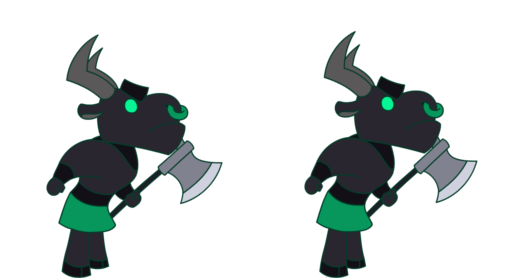
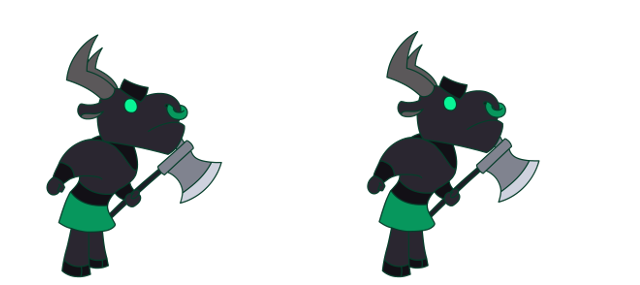
Added new walker animations

Changed region(s): [[0.5603, 0.1151, 0.9339, 1.0], [0.0623, 0.1151, 0.4358, 1.0]]

diff --git a/Assets/Scripts/WalkerAbilities.cs b/Assets/Scripts/WalkerAbilities.cs
@@ -6,8 +6,17 @@ public class WalkerAbilities: MonoBehaviour {
 
     public float walkSpeed = 2.0f;
     public float acceleration = 0.3f;
-
-    public void Move(float amount) {
+	private string state = "alive";
+	private AnimationScript animationScript;
+	
+	void Start()
+	{
+		animationScript = GetComponent<AnimationScript>();
+	}
+	
+    public void Move(float amount, bool isPlayer) {
+		if(state != "alive") return;
+		
         if (amount == 0) {
             walkSpeed = 2;
         }
@@ -17,24 +26,24 @@ public class WalkerAbilities: MonoBehaviour {
 
         transform.Translate(walkAmount * Vector2.right);
 		
-		AnimationScript animationScript = GetComponent<AnimationScript>();
+		string suffix = (isPlayer) ? "-P" : "";
 		
 		if(walkAmount < 0)
 		{
-			animationScript.ChangeAnim("WalkerWalk");
+			animationScript.ChangeAnim("WalkerWalk" + suffix);
 			animationScript.frameTime = 0.2f;
 			animationScript.flipX = true;
 		}
 		else
 		if(walkAmount > 0)
 		{
-			animationScript.ChangeAnim("WalkerWalk");
+			animationScript.ChangeAnim("WalkerWalk" + suffix);
 			animationScript.frameTime = 0.2f;
 			animationScript.flipX = false;
 		}
 		else
 		{
-			animationScript.ChangeAnim("WalkerIdle");
+			animationScript.ChangeAnim("WalkerIdle" + suffix);
 			animationScript.frameTime = 0.4f;
 		}
     }
@@ -48,5 +57,12 @@ public class WalkerAbilities: MonoBehaviour {
     public void SetWalkSpeed(float speed) {
         this.walkSpeed = speed;
     }
+	
+	public void die()
+	{
+		animationScript.ChangeAnim("WalkerDeath", false);
+		animationScript.frameTime = 0.1f;
+		state = "dead";
+	}
 }
 

diff --git a/Assets/Scripts/AnimationScript.cs b/Assets/Scripts/AnimationScript.cs
@@ -12,6 +12,7 @@ public class AnimationScript : MonoBehaviour {
 	public float frameTime;
 	public bool flipX;
 	public bool flipY;
+	public bool loop;
 	
 	void Awake()
 	{
@@ -39,7 +40,11 @@ public class AnimationScript : MonoBehaviour {
 		{
 			timeCounter = 0f;
 			fNum++;
-			if(fNum >= frames.Length) fNum = 0;
+			if(fNum >= frames.Length)
+			{
+				if(loop) fNum = 0;
+				else fNum = frames.Length - 1;
+			}
 		}
 		
 		transform.localScale = Vector3.one;
@@ -50,14 +55,20 @@ public class AnimationScript : MonoBehaviour {
 		sr.sprite = frames[fNum];
 	}
 	
-	public void ChangeAnim(string newAnim)
+	public void ChangeAnim(string newAnim, bool loop)
 	{
 		if(animName == newAnim) return;
 		
 		animName = newAnim;
 		fNum = 0;
 		timeCounter = 0;
+		this.loop = loop;
 		
 		loadFrames(animName);
+	}
+	
+	public void ChangeAnim(string newAnim)
+	{
+		ChangeAnim(newAnim, true);
 	}
 }

diff --git a/Assets/Scripts/WalkerPlayer.cs b/Assets/Scripts/WalkerPlayer.cs
@@ -11,6 +11,8 @@ public class WalkerPlayer : MonoBehaviour {
     // Use this for initialization
     void Start() {
         abilityScript = gameObject.GetComponent<WalkerAbilities>();
+        
+        Debug.Log(gameObject.name + " possessed!");
     }
 
     void OnCollisionEnter2D(Collision2D collision) {
@@ -19,12 +21,13 @@ public class WalkerPlayer : MonoBehaviour {
         }
         if (collision.gameObject.tag == "deadlyOnTouch") {
             playerManager.SendMessage("Die");
+            abilityScript.die();
             return;
         }
     }
 
     void FixedUpdate() {
         float horizontalVelocity = Input.GetAxis("Horizontal");
-        abilityScript.Move(horizontalVelocity);
+        abilityScript.Move(horizontalVelocity, true);
     }
 }

diff --git a/Assets/Scripts/WalkerAI.cs b/Assets/Scripts/WalkerAI.cs
@@ -12,7 +12,7 @@ public class WalkerAI : MonoBehaviour {
     }
 
     void FixedUpdate() {
-        abilityScript.Move(walkingDirection);
+        abilityScript.Move(walkingDirection, false);
     }
 
     void OnCollisionEnter2D(Collision2D collision) {
